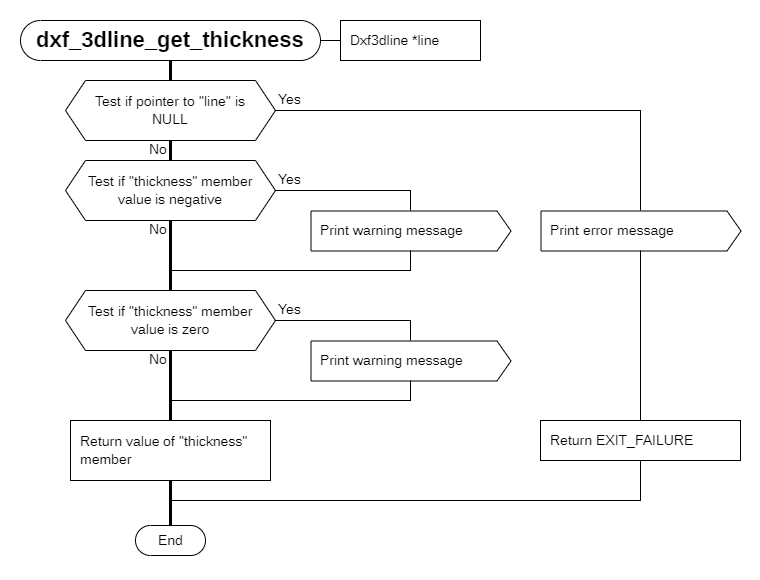
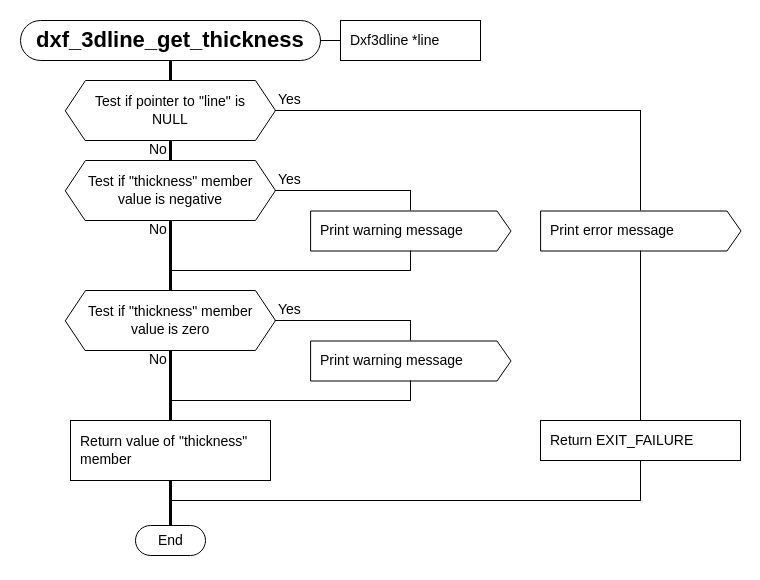
3DLINE: added a flow diagram for dxf_3dline_get_thickness().

diff --git a/src/3dline.c b/src/3dline.c
@@ -1161,6 +1161,9 @@ dxf_3dline_set_elevation
 /*!
  * \brief Get the thickness from a DXF \c 3DLINE entity.
  *
+ * <b>Flow diagram:</b>
+ * \image html drakon/dxf_3dline_get_thickness.png
+ *
  * \return thickness.
  */
 double
